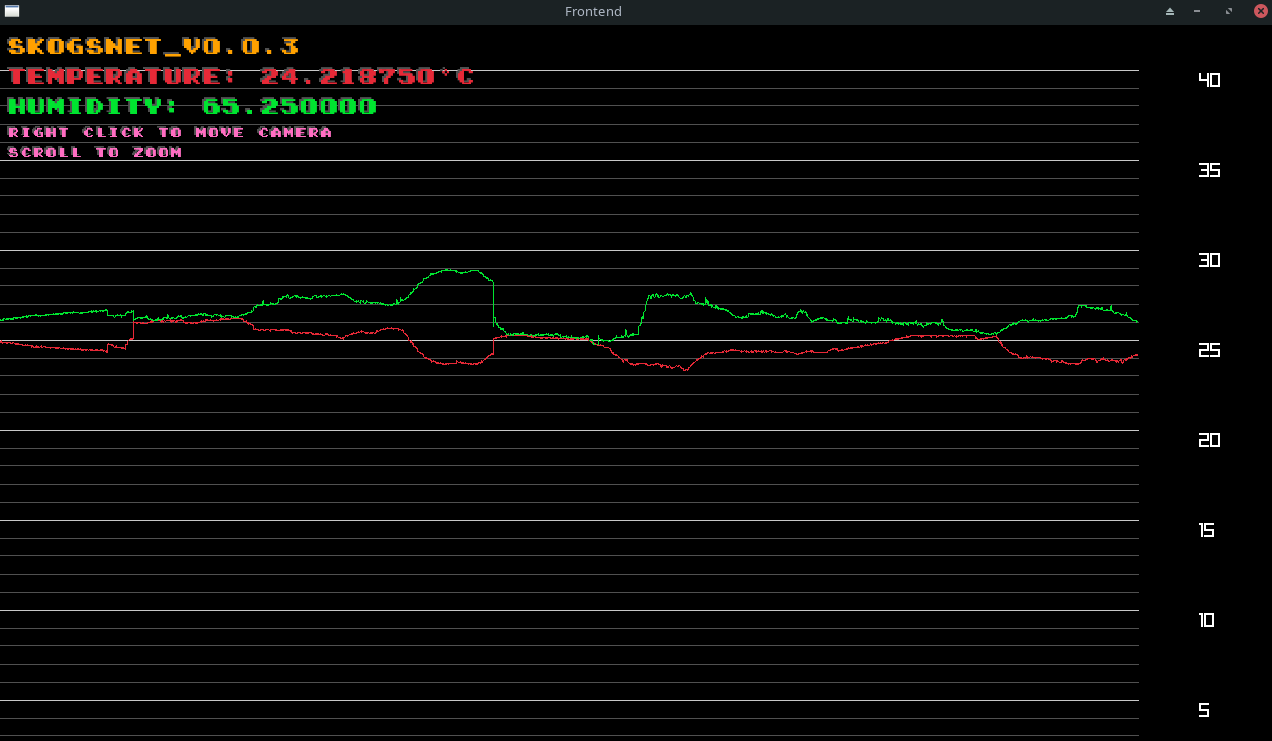
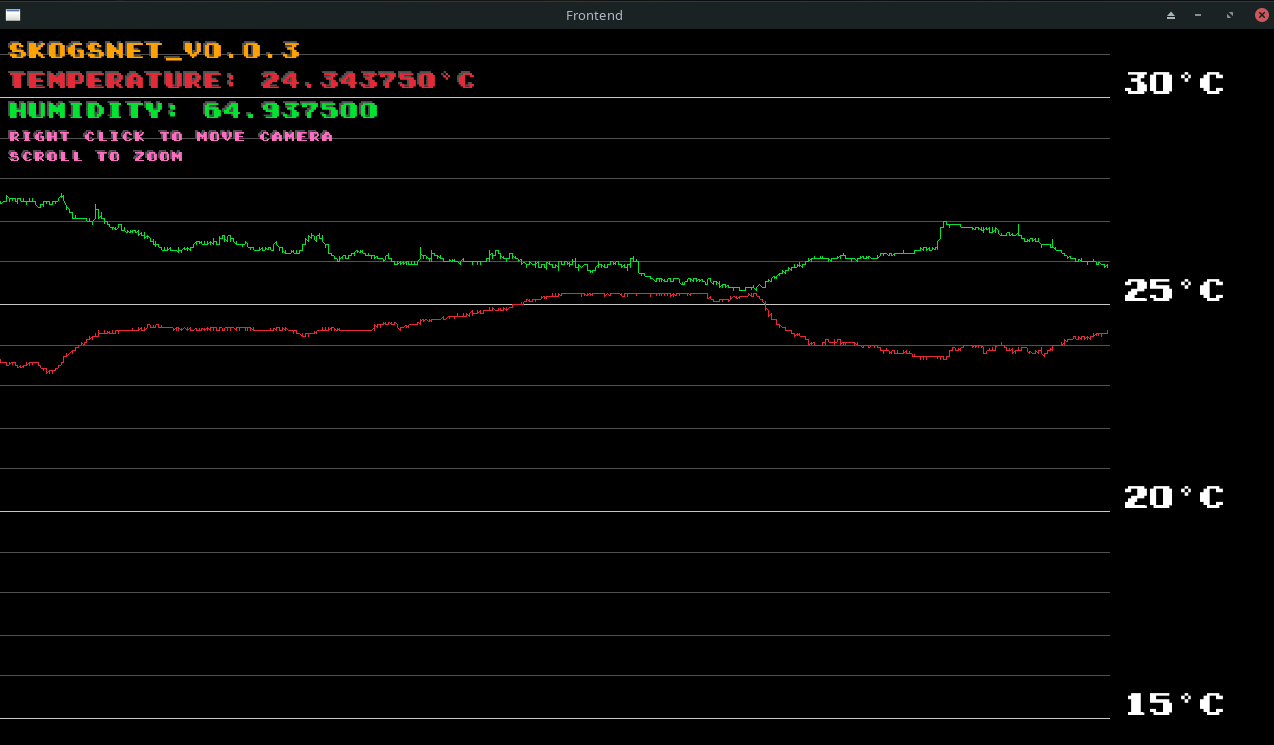
proper font

diff --git a/raylib_frontend/Frontend.cpp b/raylib_frontend/Frontend.cpp
@@ -241,14 +241,14 @@ GameRender(f32 DeltaTime)
                 }
             }
 
-            // Draw the labels
+            // Draw the labels to the right
             for (i32 i = -40; i <= 40; ++i)
             {
                 if (i % 5 == 0)
                 {
                     char Label[16];
                     sprintf(Label, "%d°C", i);
-                    DrawText(Label, ScreenWidth - (ScreenWidth / 16.0f), 0.9f * ScreenHeight - i * (0.8f * ScreenHeight / 40.0f), 16, WHITE);
+                    DrawTextEx(MainFont, Label, (Vector2){0.9f * ScreenWidth + 5.0f, 0.9f * ScreenHeight - i * (0.8f * ScreenHeight / 40.0f) - 10.0f}, 10.0f, 0.0f, WHITE);
                 }
             }
         }
